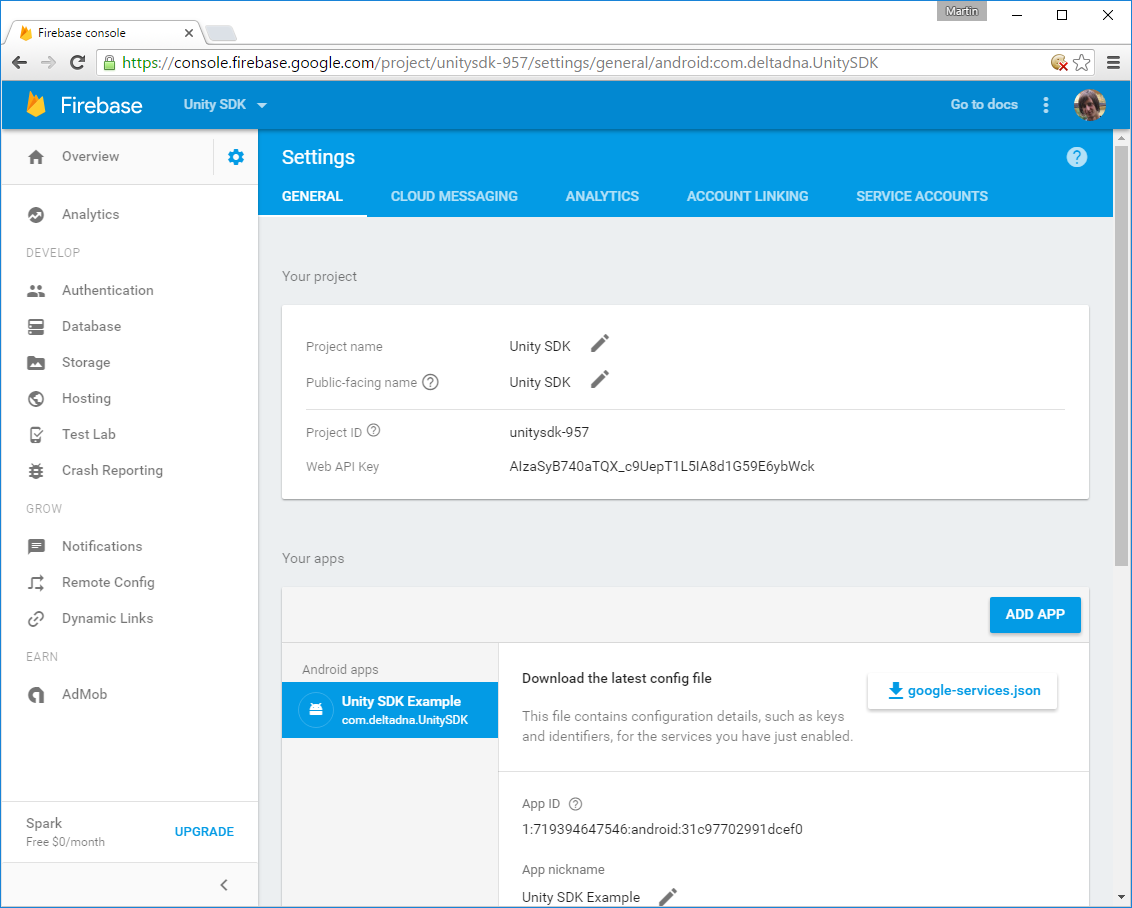
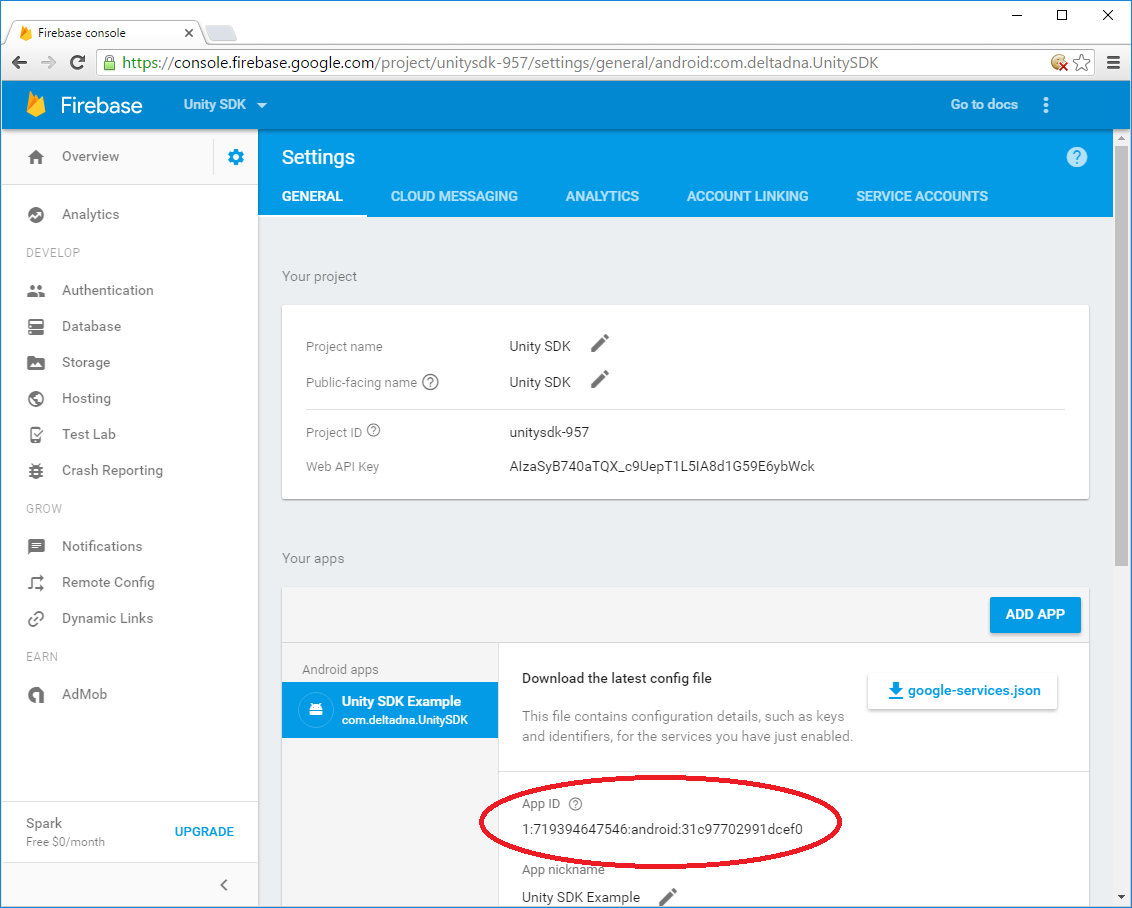
documentation improvements

diff --git a/README.md b/README.md
@@ -256,11 +256,13 @@ The latest versions of Unity cause conflict with Unity's internal UnityAds plugi
 
 ### Android and Google Libraries
 
-Any components dependant on Android and/or Google libraries will download these through the [Unity Jar Resolver](https://github.com/googlesamples/unity-jar-resolver). The libraries will be automatically downloaded into the *Assets/Plugins/Android* folder. If you have other Unity plugins in your application which don't use the Resolver for downloading dependencies you may want to condering using the Resolver to get their dependencies as well, in order to avoid conflicts between the various libraries.
+Any components dependant on Android and/or Google libraries will download these through the [Unity Jar Resolver](https://github.com/googlesamples/unity-jar-resolver). The libraries will be automatically downloaded into the *Assets/Plugins/Android* folder. If you have other Unity plugins in your application which don't use the Resolver for downloading dependencies you may want to consider using the Resolver to get their dependencies as well, in order to avoid conflicts between the various libraries.
 
 ### Push Notifications
 
-In order to use push notifications on Android you will need to set the *Application* and *Sender IDs* from the configuration screen, which can be accessed from the Unity Editor menu under *DeltaDNA/Notifications/Android/Configure*. The IDs can be found in the Firebase Console for your application (you can migrate your application from the Google Cloud Console as per instructions [here](https://developers.google.com/cloud-messaging/android/android-migrate-fcm#import_your_gcm_project_as_a_firebase_project)). Pressing 'Apply' will persist the changes to resource files in your project, which should be committed to source control.
+In order to use push notifications on Android you will need to set the *Application* and *Sender IDs* from the configuration screen, which can be accessed from the Unity Editor menu under *DeltaDNA -> Notifications -> Android -> Configure*. The IDs can be found in the Firebase Console for your application ([1](Docs/firebase_console_1.png), [2](Docs/firebase_console_2.png), and [3](Docs/firebase_console_3.png)). Pressing *Apply* will persist the changes to resource files in your project, which should be committed to source control.
+
+If your application is setup using the Google Cloud Console you can find instructions [here](https://developers.google.com/cloud-messaging/android/android-migrate-fcm#import_your_gcm_project_as_a_firebase_project) on how to migrate the project to Firebase. Firebase projects are backwards compatible with applications using Google Cloud Messaging.
 
 The style of the push notifications can be changed by overriding the behaviour of the library. Instructions on how to do this can be found [here](https://github.com/deltaDNA/android-sdk/tree/master/library-notifications#unity). Once you have added either the modified library or added the new classes as a separate library you will need to change the *Listener Service* field in the configuration to the fully qualified name of your new class.
 
@@ -268,13 +270,11 @@ If you do not wish to use push notifications on Android then you can remove the 
 
 ### SmartAds on Android
 
-As with SmartAds on iOS the same settings from *DeltaDNA -> SmartAds -> Select Networks* can be used to select which networks should be used. After applying the changes the SDK will automatically download the ad network libraries from a Maven repository.
+As with SmartAds on iOS the same settings from *DeltaDNA -> SmartAds -> Select Networks* can be used to select which networks should be used. After applying the changes the SDK will automatically download the ad network libraries from a Maven repository. If you make changes to the enabled networks the changes to the *build.gradle* file should be committed to version control.
 
 The Android libraries can also be downloaded from the *DeltaDNA -> SmartAds -> Android -> Download Libraries* menu item. We recommend doing this after updating the DeltaDNA SDK, or after pulling changes from version control. The SDK will automatically try to detect when the downloaded libraries may be stale and will show a warning in the Editor console.
 
-If you make changes to the enabled networks the changes to the build.gradle file should be committed to version control.
-
-In order for the menu items to work you will need to have the Android SDK installed and setup for your Unity project. From the Android SDK you will need to have a version of build-tools and an SDK platform installed, as well as recent versions of the *Android Support Repository* and *Google Repository*.
+In order for the menu items to work you will need to have the Android SDK installed and setup for your Unity project. From the Android SDK you will need to have a version of *build-tools* and an *SDK Platform* installed, as well as recent versions of the *Android Support Repository* and *Google Repository*.
 
 ### Permissions
 
@@ -303,10 +303,10 @@ Since we've had to change how the SmartAds networks are defined you may need to 
 #### Android Dependencies
 We have changed the SDK to use Google's [Unity Jar Resolver](https://github.com/googlesamples/unity-jar-resolver) project for downloading Android and Google dependencies. This should cause less conflicts with other Unity plugins, as their dependencies on Android and Google libraries can be specified through the Unity Jar Resolver.
 
-After improting the new DeltaDNA SDK package into your project make sure to remove the *play-services* and *support* AAR and JAR libraries from *Assets/DeltaDNA/Plugins/Android* as they will cause conflicts with the libraries downloaded by the Resolver.
+After importing the new DeltaDNA SDK package into your project make sure to remove the *play-services* and *support* AAR and JAR libraries from *Assets/DeltaDNA/Plugins/Android* as they will cause conflicts with the libraries downloaded by the Resolver.
 
 #### Android Notifications
-We have added a UI for configuring push notifications on Android, which can be accessed from the menu of the Unity Editor under *DeltaDNA/Notifications/Android/Configure*. You will need to fill in the Application and Sender IDs from the Google/Firebase Console for your application if you'd like to use notifications or are using them with a previous version of our SDK.
+We have added a UI for configuring push notifications on Android, which can be accessed from the menu of the Unity Editor under *DeltaDNA -> Notifications -> Android -> Configure*. You will need to fill in the Application and Sender IDs from the Firebase Console for your application if you'd like to use notifications or have been using them with a previous version of our SDK.
 
 We highly recommend removing any entries related to DeltaDNA notifications from the *AndroidManifest.xml* file in *Assets/Plugins/Android* as they may conflict with the new files. If you haven't added anything else to the manifest file then you may remove it altogether. For more details on which XML attributes to remove take a look [here](https://github.com/deltaDNA/android-sdk/blob/master/docs/migrations/4.3.md#manifest).
 

diff --git a/CHANGELOG.md b/CHANGELOG.md
@@ -3,12 +3,18 @@
 ## [4.3.0](https://github.com/deltaDNA/unity-sdk/releases/tag/4.3.0) (YYYY-MM-DD)
 ### Added
 - Push notifications configuration UI for Android.
-- Unity Play Resolver for downloading Android/Google dependencies.
+- Unity Play Resolver for downloading Android and Google dependencies.
+
+### Fixed
+- Notifications from campaigns overwriting other notifications on Android.
+- Application icon not being picked up for notifications on Android.
+
 ### Changed
-- Android notifications use newer Firebase libraries.
+- Notifications use newer Firebase libraries on Android.
+
 ### Removed
-- Manifest file for Android push notifications.
-- Android and Google libraries for Android push notifications.
+- Manifest file for push notifications on Android.
+- Android and Google libraries for push notifications on Android.
 
 ## [4.2.13](https://github.com/deltaDNA/unity-sdk/releases/tag/4.2.13) (YYYY-MM-DD)
 ### Fixed
